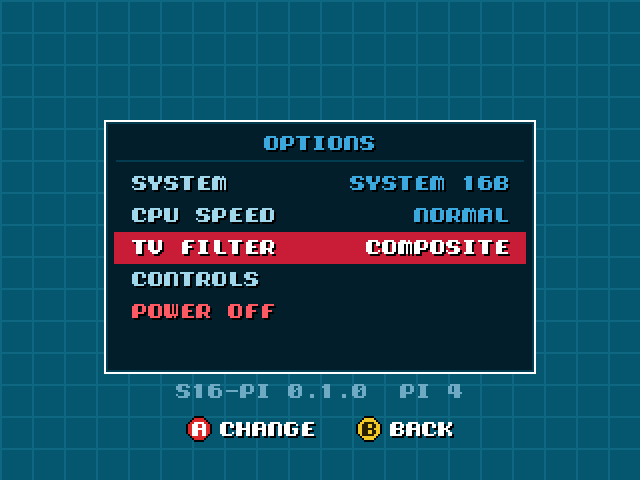
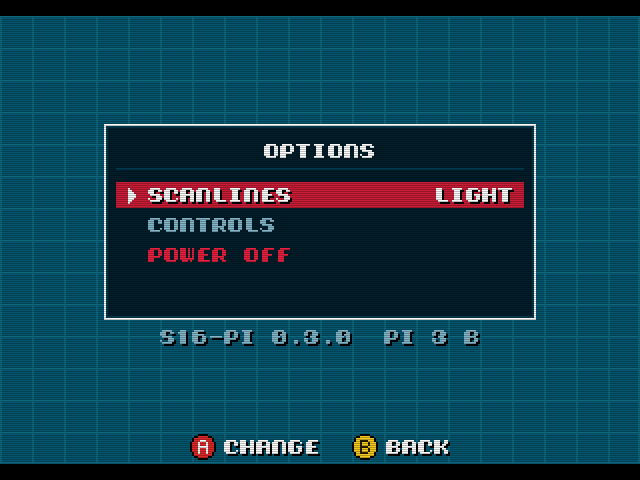
Site: the screenshots, from the real UI with SCANLINES_LIGHT
The game list and the options menu are the kernel's own output (QEMU, 640x480
with the light scanlines at 2x); Golden Axe and Moonwalker are the core's
frames with the same filter (bottom row of each pair at 75%). The COMPOSITE
detail slot is replaced by Moonwalker (System 18).

Claude-Session: https://claude.ai/code/session_01LW2N7bwyrTdRKsDwXNSwyE

diff --git a/docs/index.html b/docs/index.html
@@ -328,8 +328,6 @@ footer .lines { display: grid; gap: 8px; min-width: 0; }
 .hero h1 { font-family: var(--title); font-weight: 700; letter-spacing: 0; }
 
 .sys { white-space: nowrap; color: var(--cyan); }
-.shot-slot { display: grid; place-items: center; aspect-ratio: 4 / 3; border: 1px dashed var(--rule);
-             color: var(--dim); font-size: 12px; }
 </style>
 </head>
 <body>
@@ -395,8 +393,8 @@ footer .lines { display: grid; gap: 8px; min-width: 0; }
   <div class="content">
     <div class="shots">
       <figure><img src="img/list.png" width="640" height="480" alt="Game list"><figcaption>Game list</figcaption></figure>
-      <figure><div class="shot-slot">screenshot</div><figcaption>Golden Axe</figcaption></figure>
-      <figure><div class="shot-slot">screenshot</div><figcaption>Optional COMPOSITE filter (detail)</figcaption></figure>
+      <figure><img src="img/golden-axe.png" width="640" height="480" alt="Golden Axe" loading="lazy"><figcaption>Golden Axe (System 16)</figcaption></figure>
+      <figure><img src="img/moonwalker.png" width="640" height="480" alt="Michael Jackson's Moonwalker" loading="lazy"><figcaption>Michael Jackson's Moonwalker (System 18)</figcaption></figure>
       <figure><img src="img/options.png" width="640" height="480" alt="Options menu"><figcaption>Options</figcaption></figure>
     </div>
   </div>
